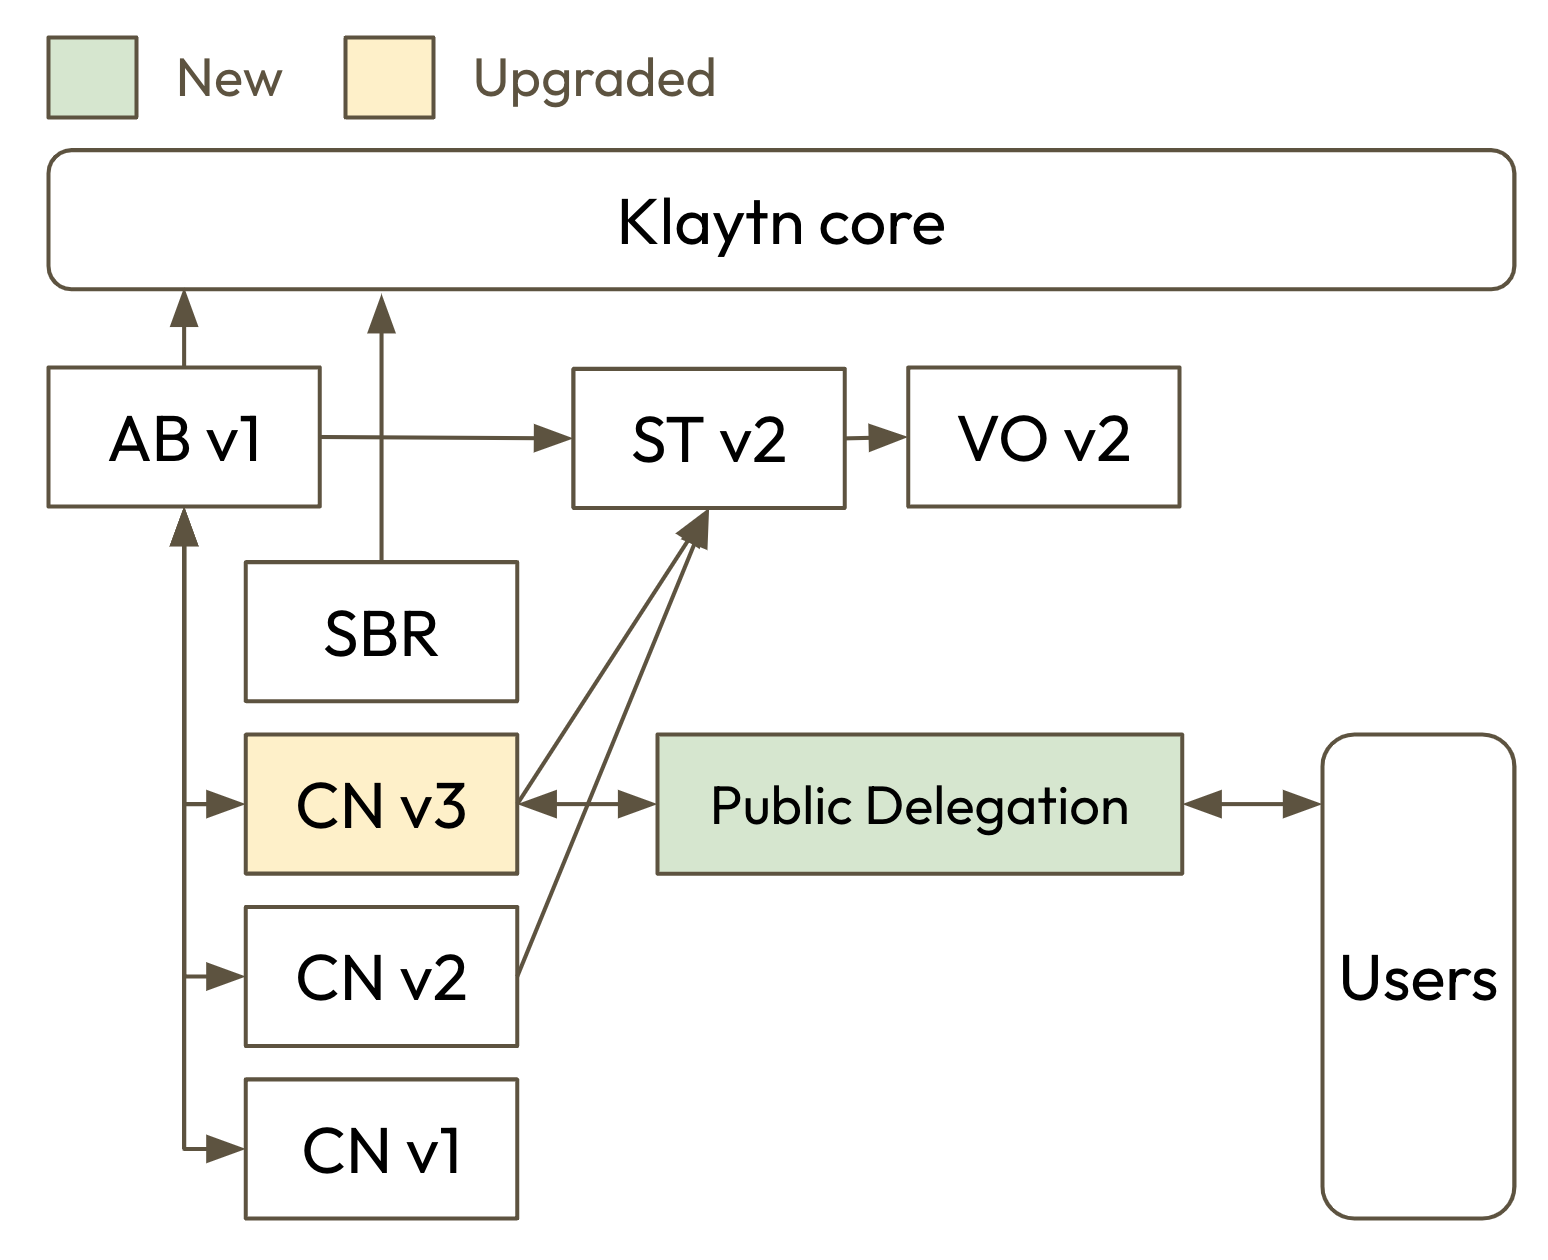
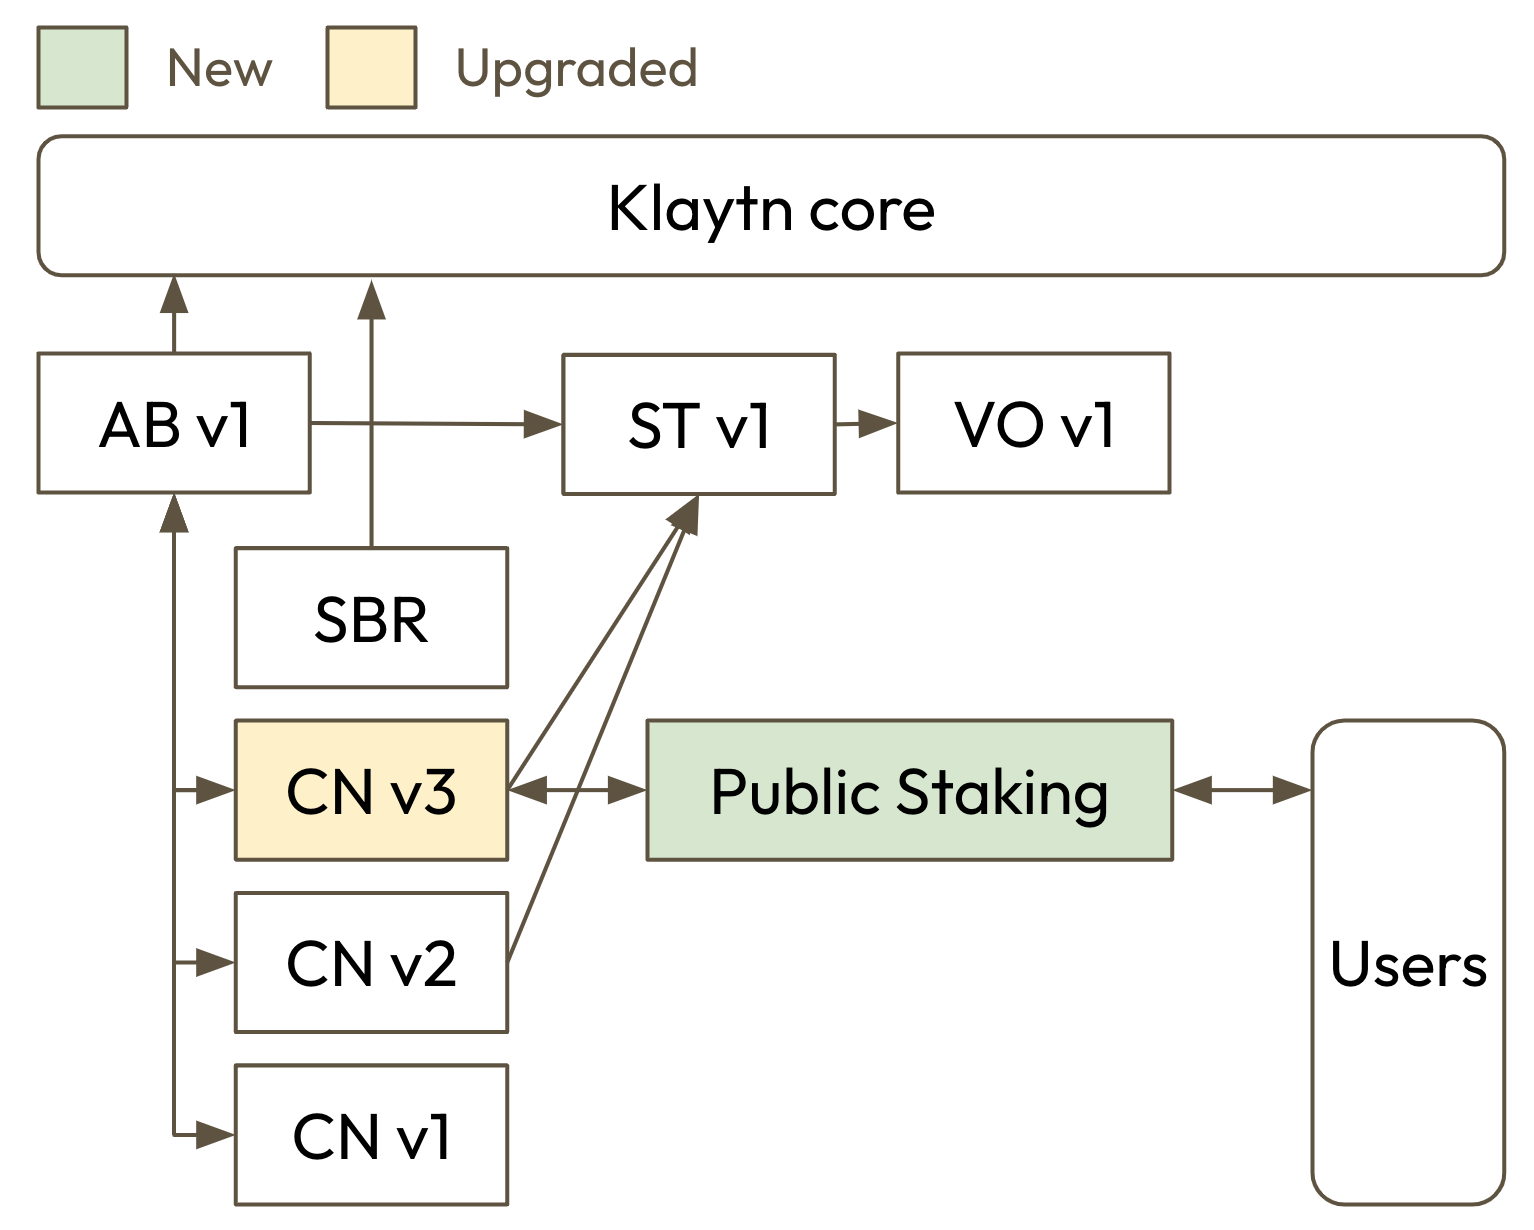
Apply reviews

Changed region(s): [[0.0, 0.0, 0.9804, 0.9886], [0.766, 0.5561, 0.9804, 0.9886], [0.7353, 0.3707, 0.766, 0.4016]]

diff --git a/KIPs/kip-163.md b/KIPs/kip-163.md
@@ -100,7 +100,7 @@ The features added in CNv3 are only active when PD is enabled; without PD, exist
 | `cancelApprovedStakingWithdrawal`       | Only Multi-sig             | Only PD    |
 | `withdrawApprovedStaking`               | Only Multi-sig             | Only PD    |
 
-The CNv3 must call setPublicDelegation to set public delegation. In `setPublicDelegation`, it deploys a new public delegation contract and connect to CNv3.
+The CNv3 must call `setPublicDelegation` to set public delegation. In `setPublicDelegation`, it deploys a new public delegation contract and connect to CNv3.
 
 The redelegation is a togglable feature, and both current CNv3 and target CNv3 must enable PD and redelegation to use it. Users can redelegate their staking to another CNv3 without waiting for lockup period. But to prevent redelegation hopping, which makes Klaytn's consensus be unstable, users who have been redelegated must wait a lockup period before they can redelegate again. For example, if a user redelegates from [`A` → `B`], then user must wait for a lockup period to redelegate from B to another CNv3. The last redelegation records will be stored in each CNv3s. The below diagram shows how redelegation is processed between CNv3 and PD. The action of PD is discussed in more detail in Public Delegation.
 
